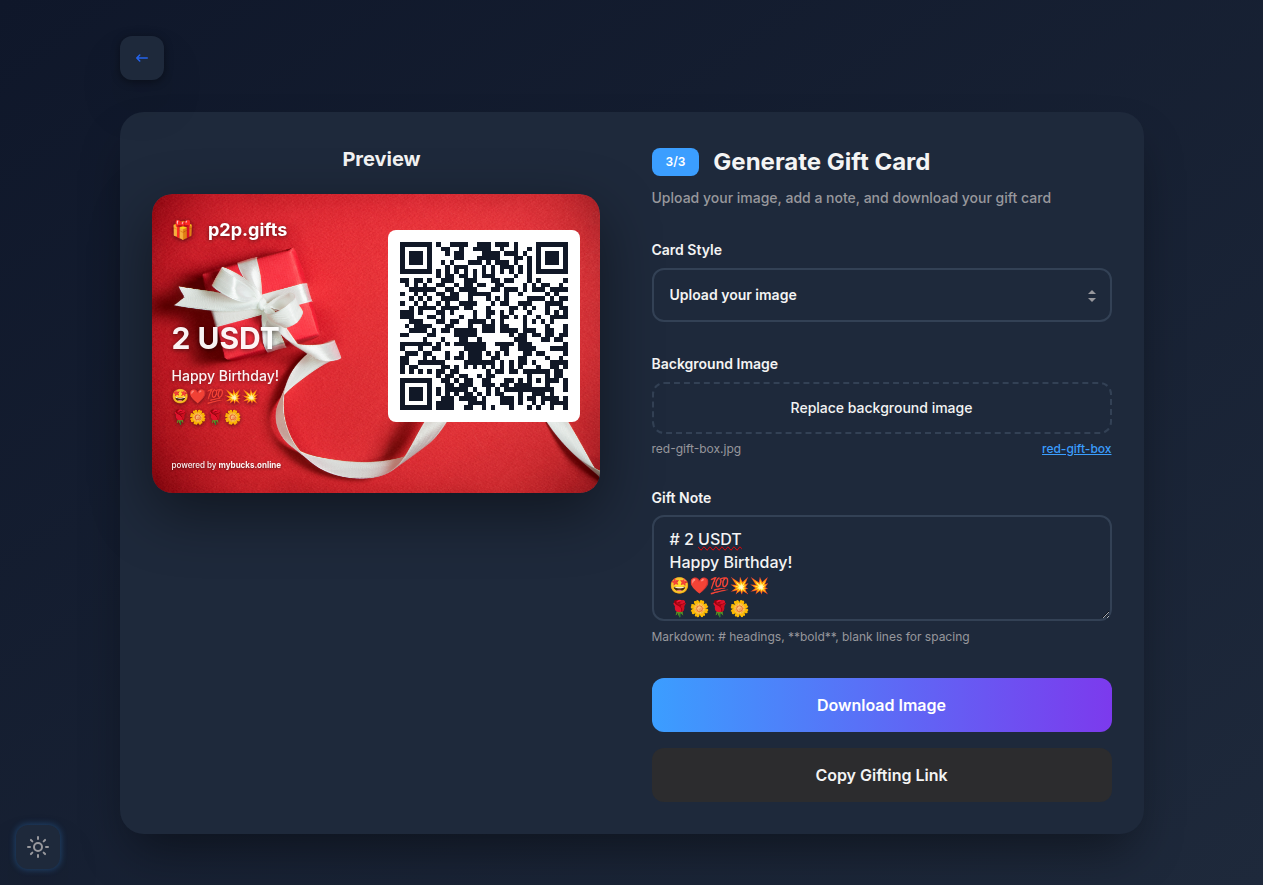
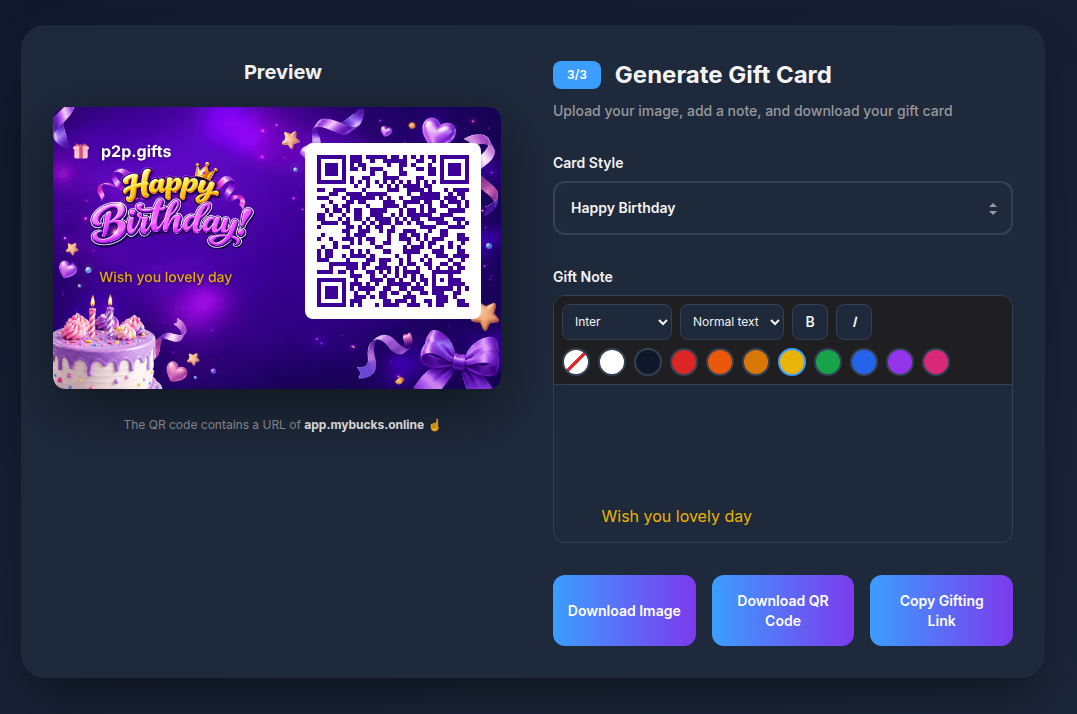
Add QR domain caption and hide empty gift-note placeholder on export (#23)
* add a caption under card preview

* hide default gift-note

* shrink p2p.gifts brand size in gift card

* update screenshots

* bump version 1.3.1

* update card edit guide comment

* add animation effect in progress modal

diff --git a/src/pages/GenerateGiftCard/index.tsx b/src/pages/GenerateGiftCard/index.tsx
@@ -45,7 +45,10 @@ import {
   preloadGiftQrLogo,
   waitForQrCanvasPaint,
 } from "@p2p-gifts/lib/giftCardExport";
+import { CLAIM_APP_ORIGIN } from "@p2p-gifts/lib/site";
 import { sizes as breakpoints } from "@p2p-gifts/styles/media";
+
+const QR_DOMAIN = CLAIM_APP_ORIGIN.replace(/^https?:\/\//, "");
 
 const DESKTOP_MIN = breakpoints.lg + 1;
 
@@ -151,6 +154,19 @@ const TemplateAttribution = styled.p`
       text-decoration: underline;
     }
   }
+`;
+
+const QrDomainNote = styled.p`
+  margin: ${({ theme }) => theme.sizes.x3s} 0 0;
+  font-size: ${({ theme }) => theme.fontSize.xs};
+  color: ${({ theme }) => theme.colors.textMuted};
+  text-align: center;
+  line-height: 1.4;
+`;
+
+const QrDomainHighlight = styled.span`
+  font-weight: ${({ theme }) => theme.weights.bold};
+  color: ${({ theme }) => theme.colors.textStrong};
 `;
 
 const SettingsColumn = styled.section`
@@ -464,6 +480,12 @@ const GenerateGiftCard = () => {
                 />
               )}
             </GiftCardPreview>
+            {giftingLink ? (
+              <QrDomainNote>
+                The QR code contains a URL of{" "}
+                <QrDomainHighlight>{QR_DOMAIN}</QrDomainHighlight> ☝
+              </QrDomainNote>
+            ) : null}
             {activeTemplate && hasTemplateAttribution(activeTemplate) ? (
               <TemplateAttribution>
                 Template by{" "}
@@ -482,9 +504,9 @@ const GenerateGiftCard = () => {
             <SettingsHeader>
               <SettingsStepTitle step={3}>Generate Gift Card</SettingsStepTitle>
               <WizardStepSummary>
-                {isCustomFormat
+                {isUploadCustom
                   ? "Upload your image, add a note, and download your gift card"
-                  : "Choose a theme and download your gift card"}
+                  : "Choose a card style, add a note, and download your gift card"}
               </WizardStepSummary>
             </SettingsHeader>
 

diff --git a/src/pages/CreateWallet/index.tsx b/src/pages/CreateWallet/index.tsx
@@ -9,7 +9,7 @@ import {
   randomPassphrase,
   randomPIN,
 } from "@mybucks.online/core";
-import styled from "styled-components";
+import styled, { keyframes } from "styled-components";
 import zxcvbn from "zxcvbn";
 
 import Button from "@p2p-gifts/components/Button";
@@ -67,11 +67,17 @@ const ProgressWrapper = styled.div`
   }
 `;
 
+const glow = keyframes`
+  0%, 100% { filter: brightness(1) contrast(1); }
+  50% { filter: brightness(1.4) contrast(1.15); }
+`;
+
 const GreetingIcon = styled.img`
   width: calc(${PROGRESS_MODAL_SIZE} * 0.4);
   height: calc(${PROGRESS_MODAL_SIZE} * 0.4);
   object-fit: contain;
   flex-shrink: 0;
+  animation: ${glow} 1.6s ease-in-out infinite;
 `;
 
 const CredentialInputWrapper = styled.div`

diff --git a/src/components/GiftCardPreview/GiftCardBrand.tsx b/src/components/GiftCardPreview/GiftCardBrand.tsx
@@ -15,7 +15,7 @@ const BrandRoot = styled.div<{
   align-items: center;
   gap: ${({ theme }) => theme.sizes.xs};
   font-weight: ${({ theme }) => theme.weights.bold};
-  font-size: ${({ theme }) => theme.fontSize.lg};
+  font-size: ${({ theme }) => theme.fontSize.base};
   line-height: 1;
   margin-bottom: ${({ $noteSpacing, theme }) =>
     $noteSpacing ? theme.sizes.x3s : 0};

diff --git a/src/lib/giftCardExport.ts b/src/lib/giftCardExport.ts
@@ -121,6 +121,8 @@ export async function renderGiftCardPng(
     preferredFontFormat: "woff2",
     fontEmbedCSS: fontEmbedCSS || undefined,
     skipFonts: !fontEmbedCSS,
+    filter: (node) =>
+      !(node instanceof HTMLElement && node.hasAttribute("data-export-hidden")),
     style: {
       transform: "none",
       margin: "0",

diff --git a/src/components/GiftCardPreview/GiftCardNote/GiftCardNote.tsx b/src/components/GiftCardPreview/GiftCardNote/GiftCardNote.tsx
@@ -165,7 +165,7 @@ export default function GiftCardNote({
   if (!hasText) {
     return (
       <NoteRoot $shadow={shadow} aria-hidden>
-        <Placeholder>Your gift note</Placeholder>
+        <Placeholder data-export-hidden>Your gift note</Placeholder>
       </NoteRoot>
     );
   }
